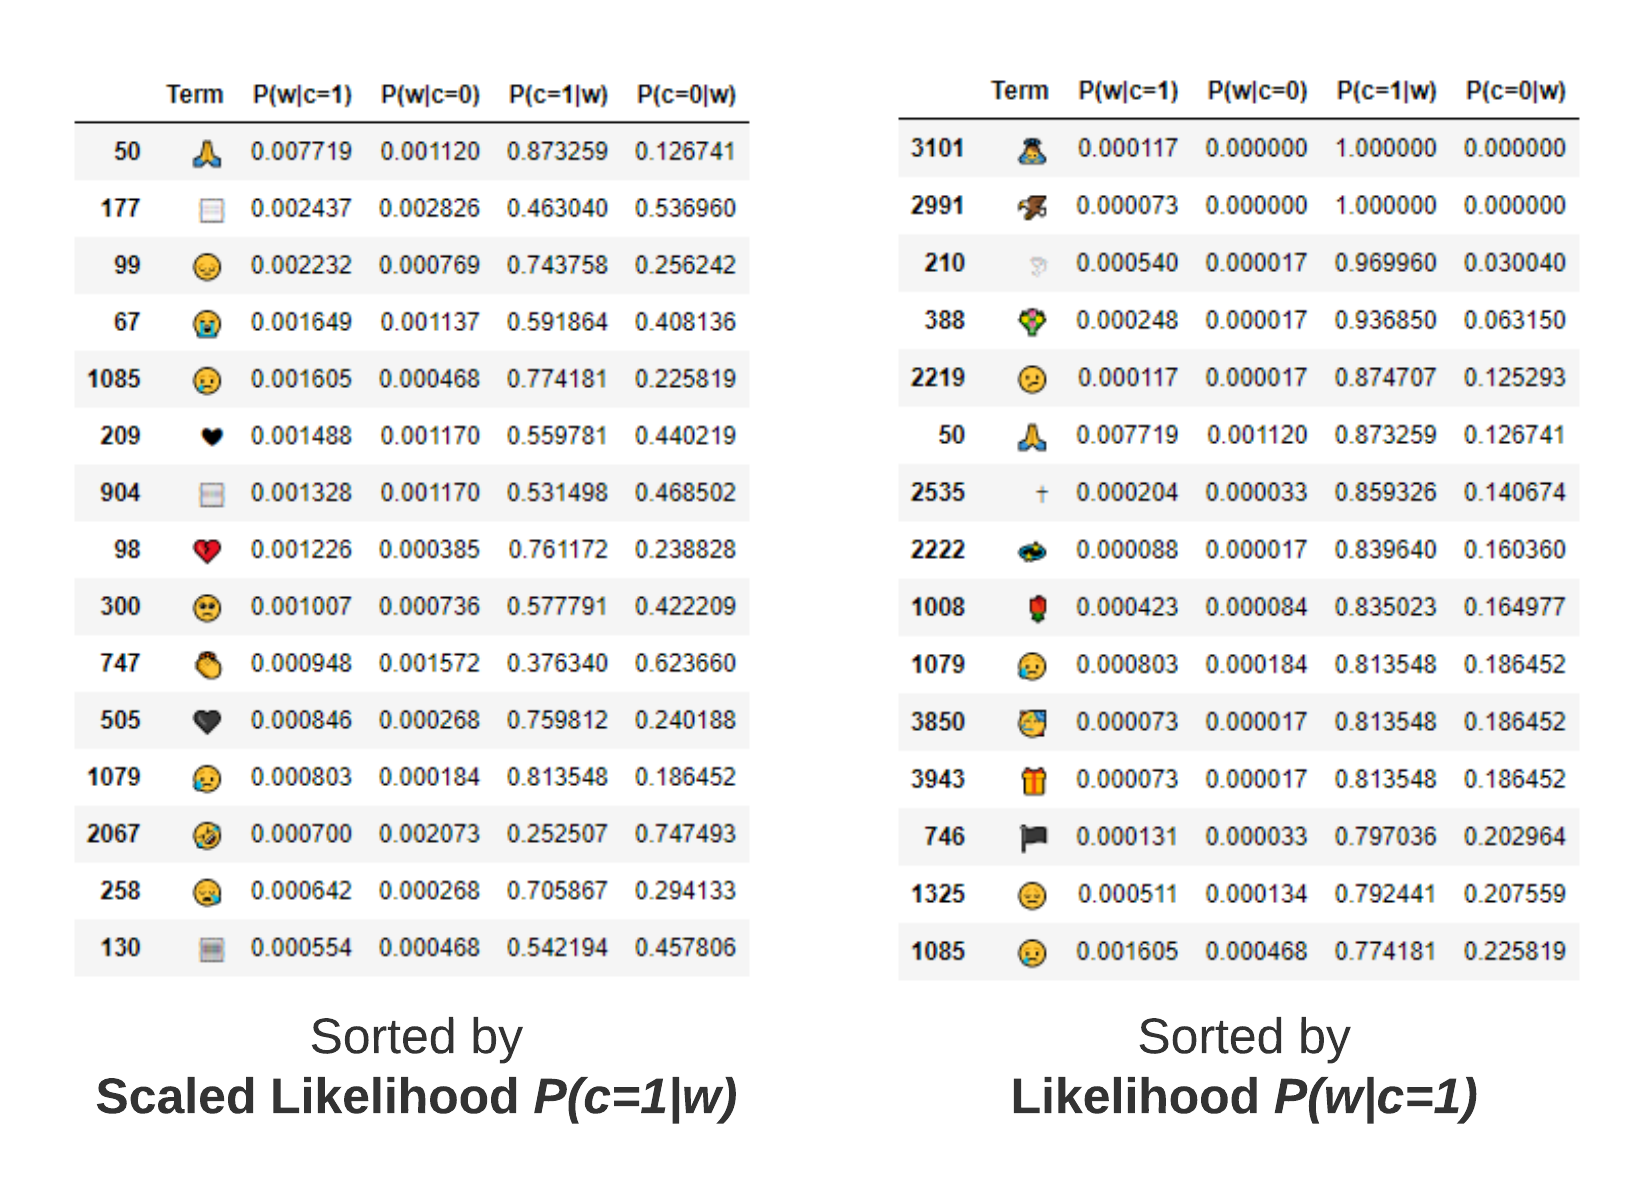
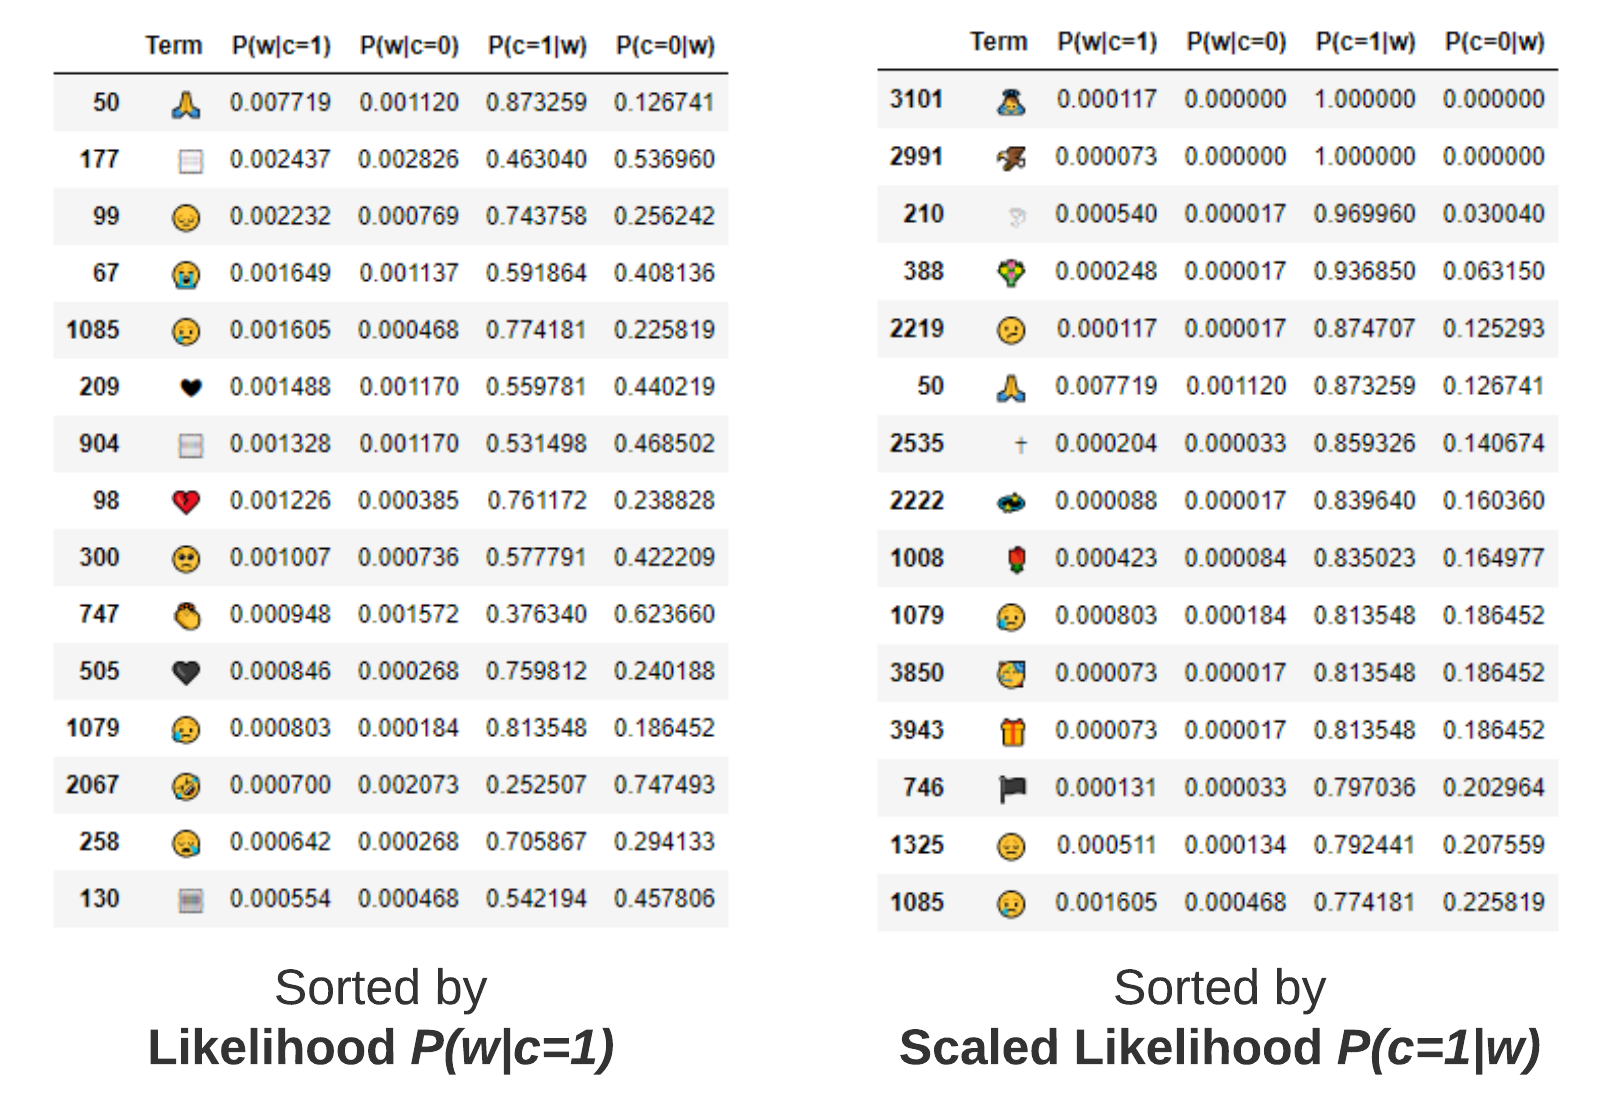
Updates from Overleaf

diff --git a/doc/MourningTweets.tex b/doc/MourningTweets.tex
@@ -21,11 +21,11 @@ Antes de realizar la construcción de los \textit{Lexicones} e implementar los m
         \item Remueven caracteres especiales de \textit{Twitter} y usuarios (\textit{@}).
     \end{itemize}
     
-    \item Se remueven \textit{stop\_words} utilizando el set de palabras de \texttt{nltk} para cada uno de los idiomas (inglés y español).
+    \item Remover las \textit{stop\_words} utilizando el set de palabras de \texttt{nltk} para cada uno de los idiomas (inglés y español).
     
     \item Con los términos (\textit{tokens}) de los \textit{tweets} se construye un vocabulario (o \textit{dictionary}) para cada uno de los \textit{datasets} (inglés y español). 
     
-    \item Con la función \texttt{filter\_extremes} de \texttt{Gensim} se remueven los términos (\textit{tokens}) menos comunes, aquellos que aparecen en menos de 5 documentos (\textit{tweets}). También se hace lo mismo para los más comunes, aquellos que aparecen en más del 75\% del \textit{dataset}, pero este cambio no tuvo efecto en el tamaño del diccionario (posiblemente porque al remover las \textit{stop\_words}, se eliminan las polabras más comunes del \textit{dataset}).
+    \item Filtrar términos poco comunes (aquellos que aparecen en menos de 5 \textit{tweets}) y muy comunes (aquellos que aparecen en más del 75\% del \textit{dataset}). Para esto se uso la función \texttt{filter\_extremes} de \texttt{Gensim}. 
     
 \end{itemize}
 
@@ -36,21 +36,20 @@ Una vez se tienen definido el diccionario para los dos datasets, se construyen l
 Para estimar dichas probabilidades, se utilizan los conceptos de verosimilitud  (\textit{likelihood}) y de verosimilitud escalada (\textit{scaled likelihood}). Las expresiones para dichas probabilidades son adaptadas de la referencia \cite{Potts2010SALT}, y se presentan a continuación:
 
 \begin{equation}
-    P(w|c=i) = \frac{f(w,c=i)}{\sum_{w\in C} f(w,c=i)}
+    \mathbf{P(w|c=i)} = \frac{f(w,c=i)}{\sum_{w\in C} f(w,c=i)}
     \label{likelihood}
-\end{equation} \\
+\end{equation} 
 
 Al escalar esta probabilidadc condicional con las probabilidades \textit{a priori} de las palabras y las clases (utilizando el teorema de Bayes), se obtiene la siguiente probabilidad condicional:
 
 \begin{equation}
-    P(c=i|w) = \frac{P(w|c=i) p(c=i)}{p(w)} = \frac{P(w|c=i)}{\sum_{c\in C} P(w|c=i)}
+    \mathbf{P(c=i|w)} = \frac{P(w|c=i) p(c=i)}{p(w)} = \frac{P(w|c=i)}{\sum_{c\in C} P(w|c=i)}
     \label{scaled_likelihood}
-\end{equation} \\
+\end{equation} 
 
 En \cite{Potts2010SALT}, sugieren trabajar con esta segunda probabilidad condicional pues un sentido más acorde. Dada la palabra, cual es la probabilidad que pertenezca a la clase. No obstante, para los dataset en cuestión se analizan ambas probabilidades.
 
 \subsubsection{Resultados}
-
 A partir de las expresiones (\ref{likelihood}) y (\ref{scaled_likelihood}), se calculan las probabilidades de cada termino para la clase mourning ($c=1$) en los dos datasets (inglés y español).
 
 \begin{table}[H]
@@ -67,13 +66,23 @@ A partir de las expresiones (\ref{likelihood}) y (\ref{scaled_likelihood}), se c
     \includegraphics[width=\textwidth]{doc/images/EN_Lexicons.png}
 \end{table}
 
+En los cuadros \ref{tab:es_lexicons} y \ref{tab:en_lexicons} se observan los 15 términos con mayor probabilidad de pertenecer a un \textit{tweet} de luto para el \textit{dataset} en español y en inglés, respectivamente. En ambos casos se presentan los resultados ordenados tanto por su \textit{likelihood} (probabilidad $P(w|c=1)$) como por \textit{scaled likelihood} (probabilidad $P(c=1|w)$). En general los resultados son bastante similares en ambos idiomas, especialmente si se mira solo su probabilidad sin escalar. \\
+
+En este caso, y a pesar de no estar ordenados exactamente igual, se observan términos muy similares en ambos idiomas. Acrónimos de luto como \textit{qdep}, el emoticón de las manos orando (id 50) y palabras como condolencias, pena, paz y familia (\textit{rip, condolences, peace, family, sorry}) se encuentran en ambas listas. De igual forma, al organizar los términos únicamente por esta probabilidad, se encuentran también palabras asociadas a la pandemia como coronavirus, covid, 19 en ambos idiomas. No obstante, es evidente que estos términos se encuentran ahí por su alta frecuencia a lo largo de todos los \textit{tweets}. Esto se puede afirmar poque, aunque su probabilidad condicional de pertenecer a la clase de luto $P(w|c=1)$ es muy alta, también lo es su probabilidad de pertenecer a la clase de no luto $P(w|c=0)$, e incluso en algunos casos es mayor. \\
+
+Por otro lado, si se observan los términos ordenados por la probabilidad escalada $P(c=1|w)$ se obtiene una lista de palabras poco comunes. Esto se debe a que al escalar por la probabilidad de la palabra (dividir entre $p(w)$), las palabras poco comunes obtienen un peso muy importante. De hecho, el set de palabras que se obtiene, tiene en todos los términos la misma probabilidad (1). Esto quiere decir que son palabras que solo aparecen en la clase de luto (\textit{mourning}), a pesar de que su ocurrencia es realmente baja. 
+
 \begin{table}[H]
+    \centering
     \caption{Resultado de los 15 emoticones con mayor probabilidad de aparecer en tweets de luto (\textit{mourning}) del \textit{dataset} en español (ES).}
     \label{tab:es_emojis}
     \includegraphics[width=\textwidth]{doc/images/ES_Emojis.png}
 \end{table}
 
+Ahora bien, algo similar a lo que ocurre con las palabras ocurre con los emoticones (véase cuadros \ref{tab:es_emojis} y \ref{tab:en_emojis}). Al mirar solo la lista ordenada por la probabilidad $P(w|c=1)$ se observan emoticones similares como: caritas tristes, caritas llorando y corazones (tanto rotos, como negros), en los \textit{datasets} de ambos idiomas. Adicionalmente, en ambos casos las manos orando encabezan la lista. No obstante, al ordenar por la probabilidad $P(c=1|w)$, se obtienen algunos emoticones poco comunes (como el guante de boxeo y el águila), cuya probabilidad es 1, pues solo aparecen en los \textit{tweets} de luto a pesar de su baja frecuencia. Sin embargo, empiezan a aparecer algunos otros con un sentido más relacionado al luto, como la paloma blanca, la cruz, un ángel y las flores. 
+
 \begin{table}[H]
+    \centering
     \caption{Resultado de los 15 emoticones con mayor probabilidad de aparecer en tweets de luto (\textit{mourning}) del \textit{dataset} en español (ES).}
     \label{tab:en_emojis}
     \includegraphics[width=\textwidth]{doc/images/EN_Emojis.png}
